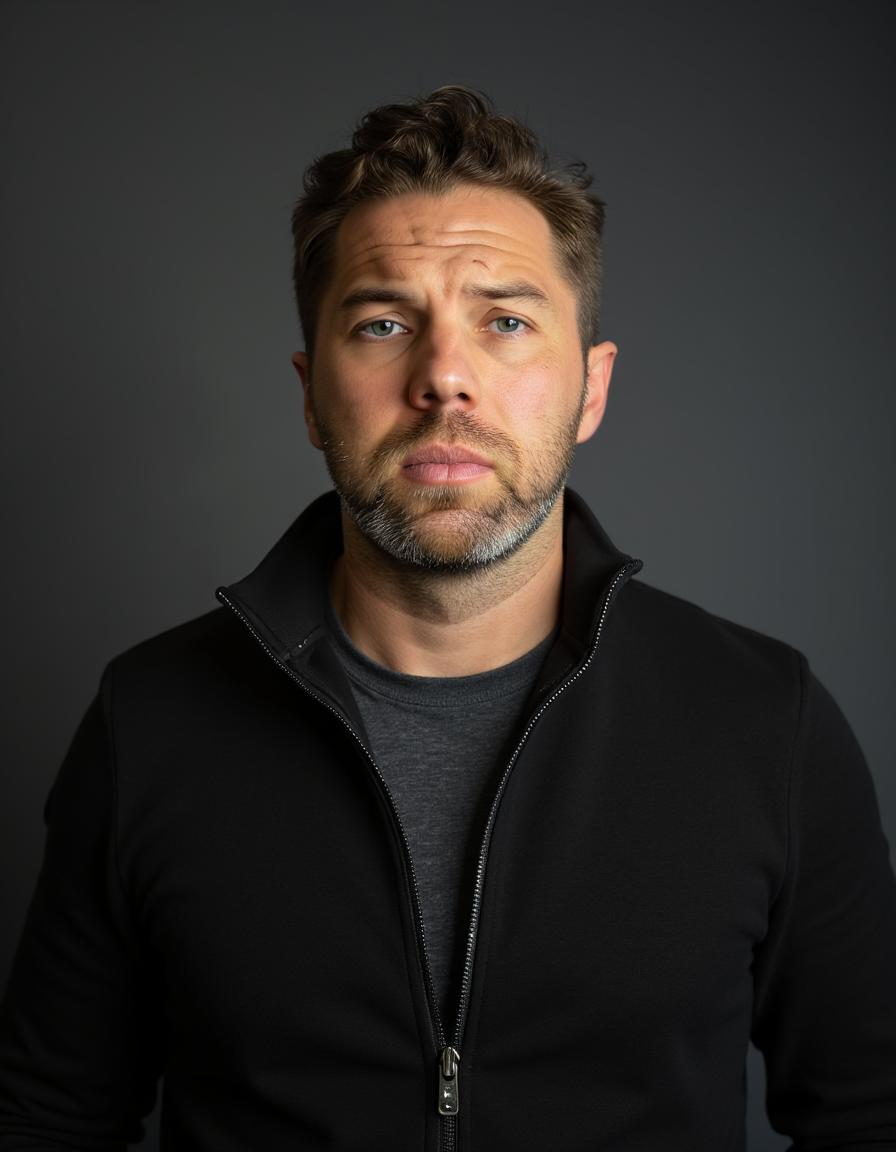
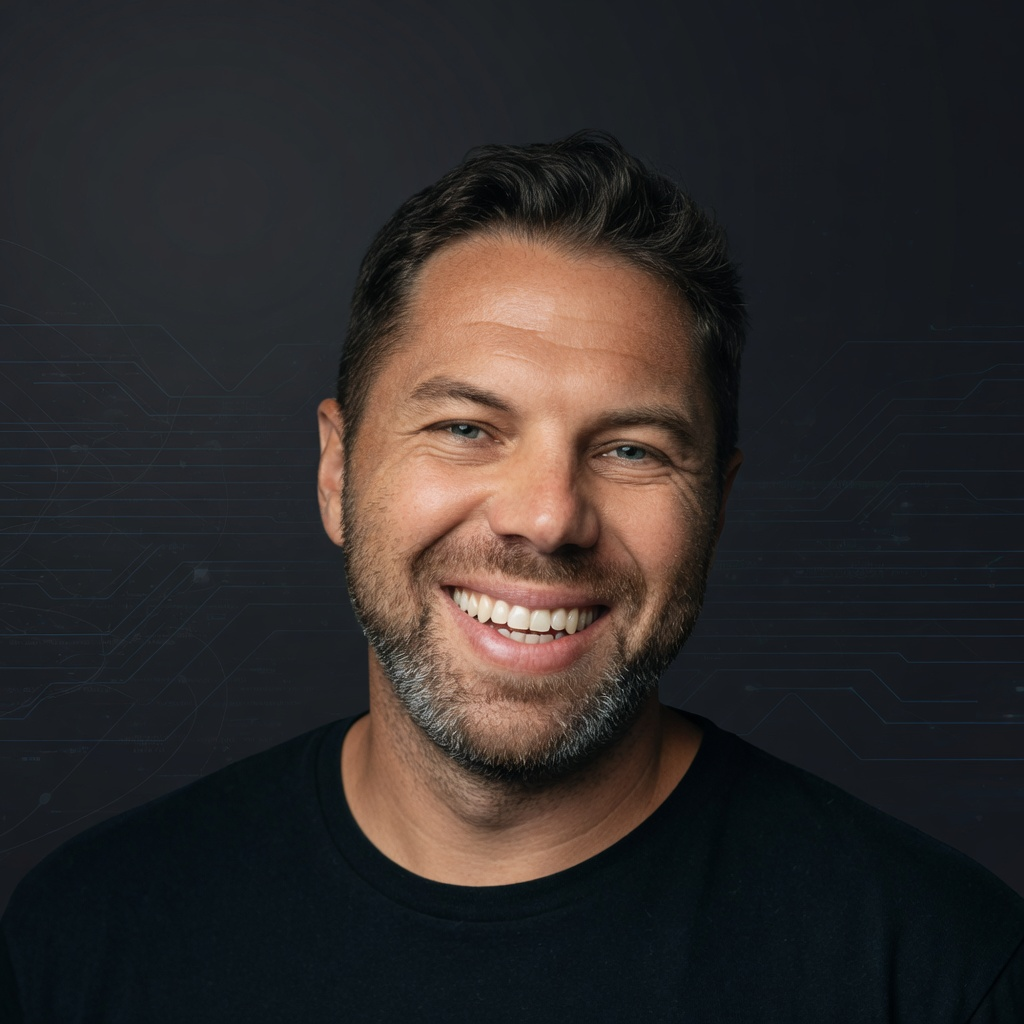
Update bio, profile photo, and add Anthropic certification
- Refresh Hero bio to highlight full-stack/AI×blockchain focus
- Add Telegram community-building achievement to Verafy project
- Add 'Claude (Anthropic Certified)' to Skills
- Update profile.jpg
- Add CLAUDE.md for future Claude Code sessions

diff --git a/components/Projects.jsx b/components/Projects.jsx
@@ -9,6 +9,7 @@ export default function Projects() {
         'AI × Blockchain research lab and innovation platform. Built Swarm Explorer that queries 250+ LLMs simultaneously with AI consensus mechanism and on-chain verification. Integrated autonomous AI agents (Eliza framework) for community engagement across X and Telegram. Decentralized fact-checking with validator network, staking rewards, and transparent AI model performance tracking.',
       achievements: [
         'Integrated 250+ AI models (Claude, GPT, Gemini, Grok, etc.) for consensus',
+        'Built and managed community from 0 → 2,500 Telegram users as lead developer and community manager',
         'Deployed autonomous AI agents (Eliza) for social engagement on X and Telegram',
         'Built validator network with SOL-based credit system and staking',
         'Partnerships with Aerō, Paladin, Phase Labs, Jito, and DoubleZero',

diff --git a/components/Hero.jsx b/components/Hero.jsx
@@ -28,7 +28,7 @@ export default function Hero() {
 
         {/* Bio */}
         <p className="text-lg md:text-xl text-gray-300 mb-12 max-w-3xl mx-auto leading-relaxed font-light">
-          Founder building at the intersection of AI and blockchain.
+          Full-stack developer building AI × blockchain products. Former Zoom support engineer and community builder (2,500+ users).
         </p>
 
         {/* CTA Buttons */}

diff --git a/components/Skills.jsx b/components/Skills.jsx
@@ -4,6 +4,7 @@ export default function Skills() {
     'React 19',
     'TypeScript',
     'AI/LLMs',
+    'Claude (Anthropic Certified)',
     'Eliza Agents',
     'Solana',
     'Bitcoin',

diff --git a/CLAUDE.md b/CLAUDE.md
@@ -1,0 +1,55 @@
+# CLAUDE.md
+
+This file provides guidance to Claude Code (claude.ai/code) when working with code in this repository.
+
+## Commands
+
+```bash
+npm run dev      # Next.js dev server on http://localhost:3000
+npm run build    # Production build
+npm run start    # Run the production build locally
+npm run lint     # next lint
+```
+
+There is no test suite.
+
+## Architecture
+
+Single-page portfolio built on Next.js 15 (App Router) + React 19 + Tailwind CSS. JavaScript only (no TypeScript), despite TS being mentioned in the metadata.
+
+- `app/page.js` is the entire site — it composes `Hero`, `Skills`, `Projects`, `Footer` in order. To add a section, create a component and import it here.
+- `app/layout.js` owns all SEO metadata (title, description, OpenGraph, Twitter card). Update here when changing how the site presents externally.
+- Path alias `@/*` → repo root (see `jsconfig.json`). Use `@/components/Foo` style imports.
+
+### Content lives in components, not data files
+
+Project entries and skills are hard-coded as arrays inside the component files — there is no CMS, JSON, or MDX layer:
+
+- `components/Projects.jsx` — `mainProjects` and `personalProjects` arrays. Each item: `{ title, techStack, description, achievements, github, live, status }`. `github` / `live` may be `null` to hide the corresponding button. `ProjectCard.jsx` is the shared renderer.
+- `components/Skills.jsx` — flat `skills` string array.
+- `components/Hero.jsx` and `components/Footer.jsx` — contact info, social URLs, and resume link are inline.
+
+When the user says "add a project" or "update skills", edit these files directly.
+
+### Static assets in `/public`
+
+- `profile.jpg` — Hero photo. Filename is case-sensitive (a prior commit fixed this for Vercel — `Profile.jpg` vs `profile.jpg`).
+- `Brace_Jeremy_Resume.pdf` — referenced by exact filename in `Hero.jsx` and `Footer.jsx`. If renamed, update both.
+
+### Styling
+
+Custom Tailwind theme in `tailwind.config.js`:
+
+- `primary` `#3B82F6` (blue accent), `background` `#0A0A0A`, `surface` `#1A1A1A`, `text` `#E5E5E5`.
+- Use these tokens (`bg-primary`, `border-primary`, `bg-surface`) rather than raw hex.
+- Dark theme is unconditional — `body` background is set in `app/globals.css`, no theme toggle.
+- `.fade-in` keyframe in `globals.css` is the project's only custom animation.
+
+### `'use client'` policy
+
+Only `Hero.jsx` is a client component (it has an `onError` handler on the profile image). Everything else is a server component. Don't add `'use client'` unless a component actually needs browser-only APIs or event handlers.
+
+## Repo notes
+
+- `archive/` holds old resume drafts and interview prep — not shipped, ignore unless asked.
+- Deployment is Vercel via GitHub auto-deploy on push to `main`. See `DEPLOYMENT.md` for the full flow.
